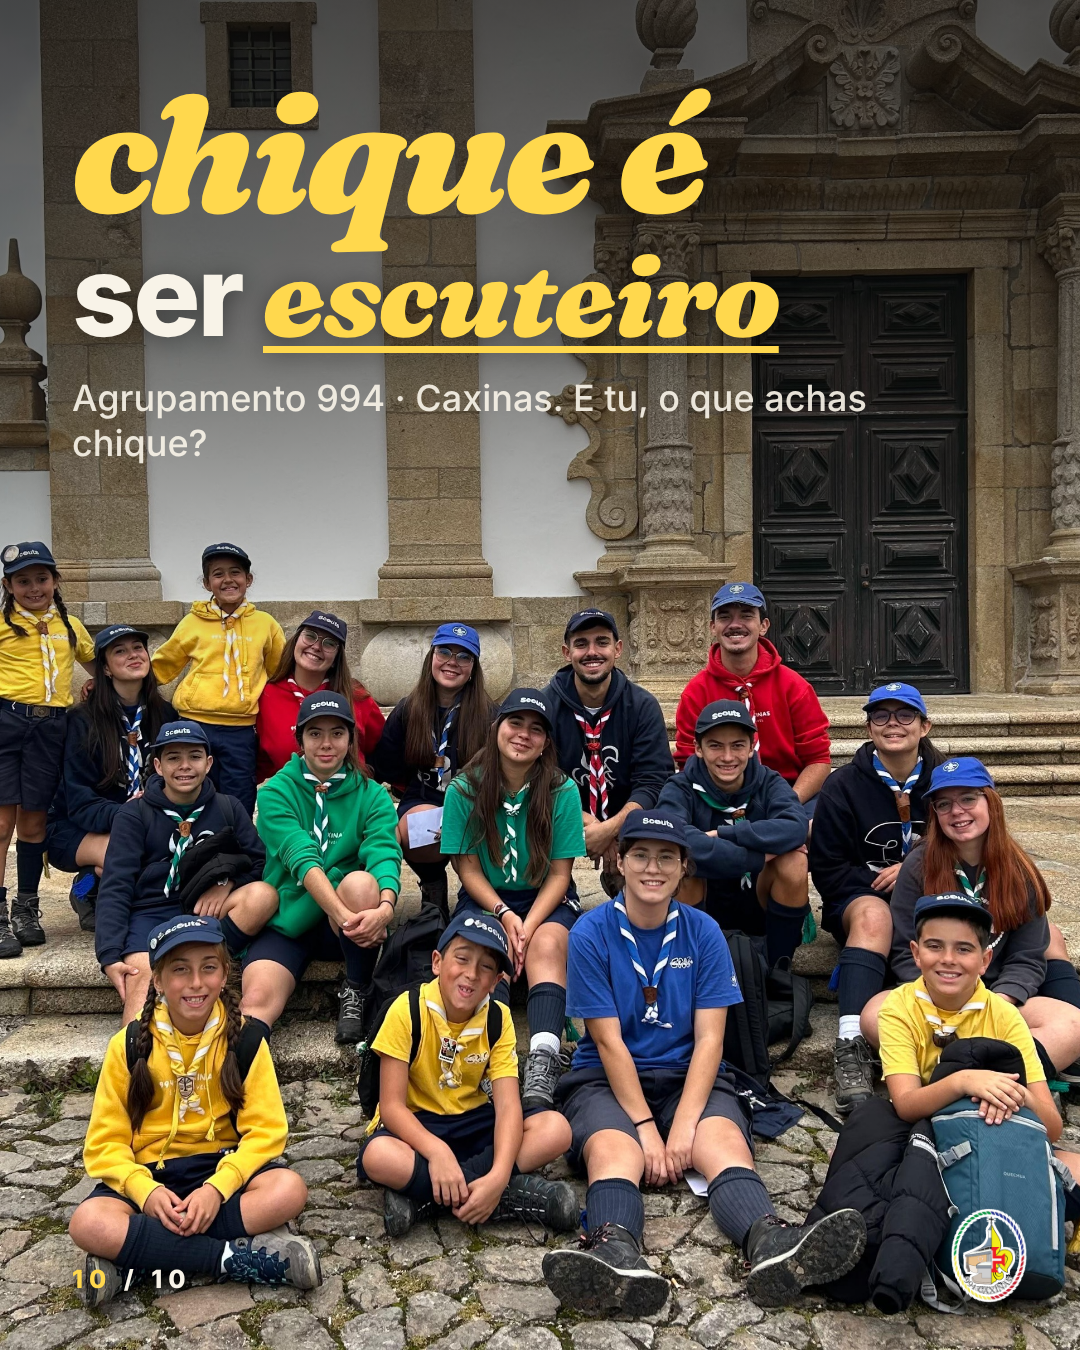
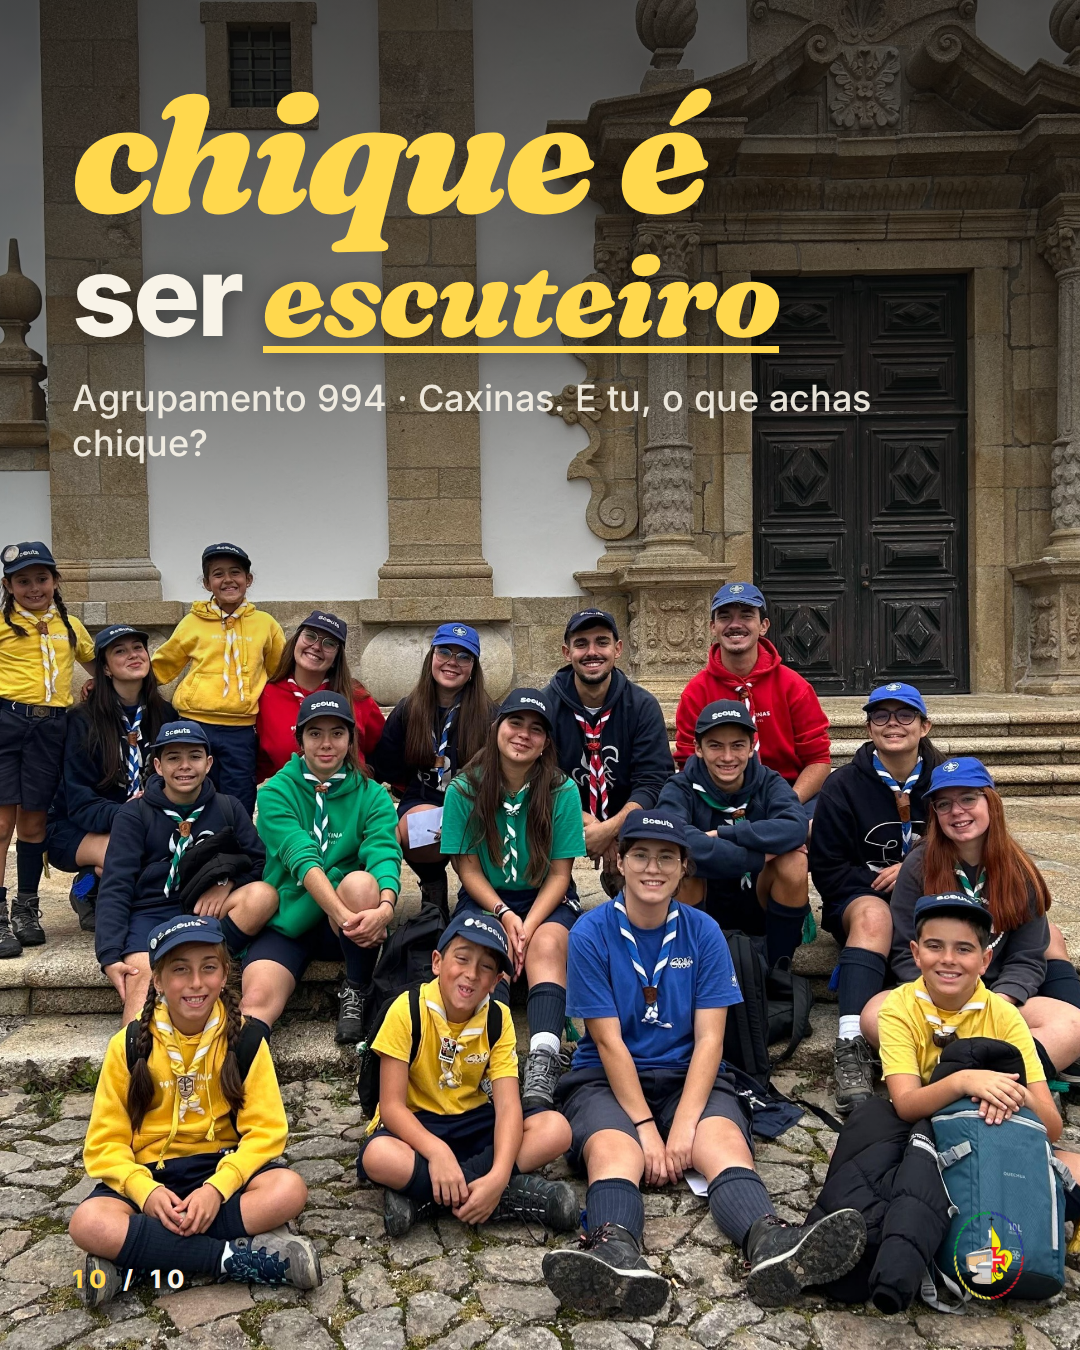
asdas

diff --git a/series/chique_994/estilo.css b/series/chique_994/estilo.css
@@ -37,7 +37,7 @@ html, body { width: {{ w }}px; height: {{ h }}px; background: #000; }
 /* rodapé minimalista */
 .marca { position: absolute; left: 72px; bottom: 56px; font-family: "Inter"; font-weight: 800; font-size: 25px; letter-spacing: 6px; text-transform: uppercase; color: var(--creme); text-shadow: 0 2px 8px rgba(0,0,0,.7); }
 .marca b { color: var(--cor); }
-.logo { position: absolute; right: 54px; bottom: 42px; filter: drop-shadow(2px 0 0 #fff) drop-shadow(-2px 0 0 #fff) drop-shadow(0 2px 0 #fff) drop-shadow(0 -2px 0 #fff) drop-shadow(0 6px 10px rgba(0,0,0,.5)); }
+.logo { position: absolute; right: 54px; bottom: 42px; }
 
 /* foto «inteira»: mostra a imagem completa por cima de um fundo desfocado (para retratos e fotos de grupo) */
 .foto.inteira { background-size: contain; }
